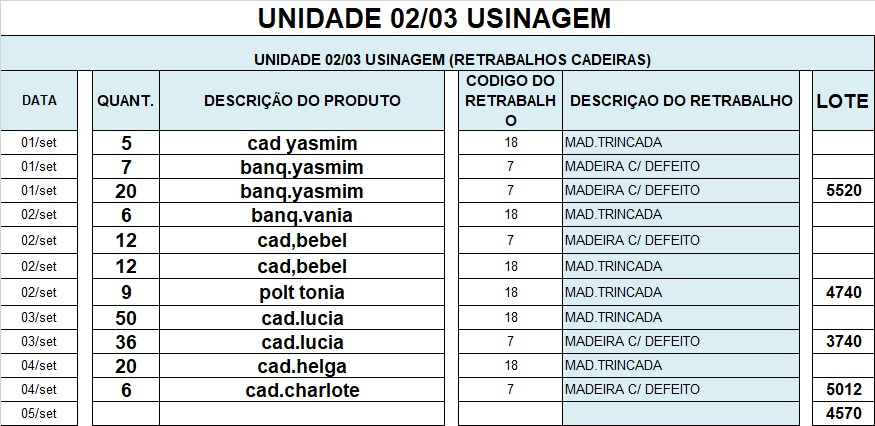
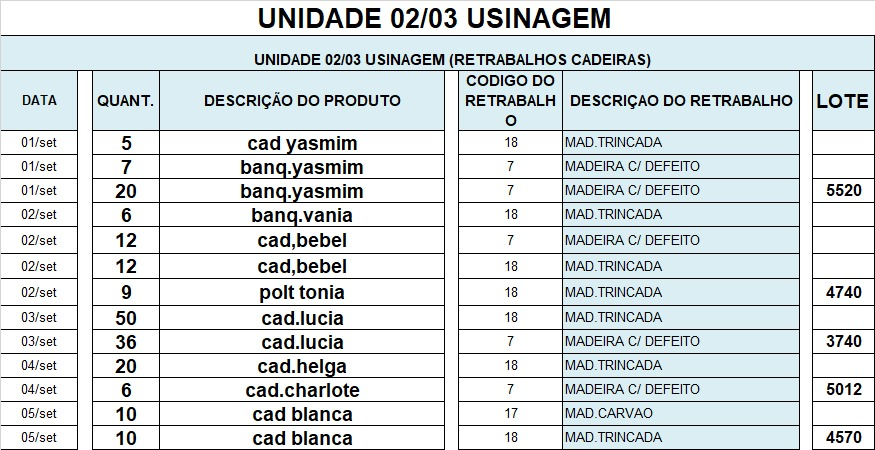
,

diff --git a/back__incial.js b/back__incial.js
@@ -1937,7 +1937,7 @@ const unidades = {
             { data: "02/09/2025", captura: ["capturas/Unidade 2/Usinagem/2025/09-SETEMBRO/MONTAGEM US/02.jpeg", "capturas/Unidade 2/Usinagem/2025/09-SETEMBRO/ROLINHO/02.jpeg", "capturas/Unidade 2/Usinagem/2025/09-SETEMBRO/ROQUITE/02.jpeg", "capturas/Unidade 2/Usinagem/2025/09-SETEMBRO/MM/02.jpg", "capturas/Unidade 2/Usinagem/2025/09-SETEMBRO/USINAGEM/02.jpg"] },
             { data: "03/09/2025", captura: ["capturas/Unidade 2/Usinagem/2025/09-SETEMBRO/MONTAGEM US/03.jpeg", "capturas/Unidade 2/Usinagem/2025/09-SETEMBRO/ROLINHO/03.jpeg", "capturas/Unidade 2/Usinagem/2025/09-SETEMBRO/ROQUITE/03.jpeg", "capturas/Unidade 2/Usinagem/2025/09-SETEMBRO/MM/03.jpg", "capturas/Unidade 2/Usinagem/2025/09-SETEMBRO/USINAGEM/03.jpg"] },
             { data: "04/09/2025", captura: ["capturas/Unidade 2/Usinagem/2025/09-SETEMBRO/MONTAGEM US/04.jpeg", "capturas/Unidade 2/Usinagem/2025/09-SETEMBRO/ROLINHO/04.jpeg", "capturas/Unidade 2/Usinagem/2025/09-SETEMBRO/ROQUITE/04.jpeg", "capturas/Unidade 2/Usinagem/2025/09-SETEMBRO/MM/04.jpg", "capturas/Unidade 2/Usinagem/2025/09-SETEMBRO/USINAGEM/04.jpg"] },
-
+            { data: "05/09/2025", captura: ["", "", "", "capturas/Unidade 2/Usinagem/2025/09-SETEMBRO/MM/05.jpg", ""] },
 
             ],
 
@@ -2380,6 +2380,9 @@ const unidades = {
             { data: "02/09/2025", captura: ["capturas/Unidade 3/Usinagem/2025/09-SETEMBRO/02.jpg"] }, 
             { data: "03/09/2025", captura: ["capturas/Unidade 3/Usinagem/2025/09-SETEMBRO/03.jpg"] },
             { data: "04/09/2025", captura: ["capturas/Unidade 3/Usinagem/2025/09-SETEMBRO/04.jpg"] }, 
+            { data: "05/09/2025", captura: ["capturas/Unidade 3/Usinagem/2025/09-SETEMBRO/05.jpg"] }, 
+
+
 
 
 
